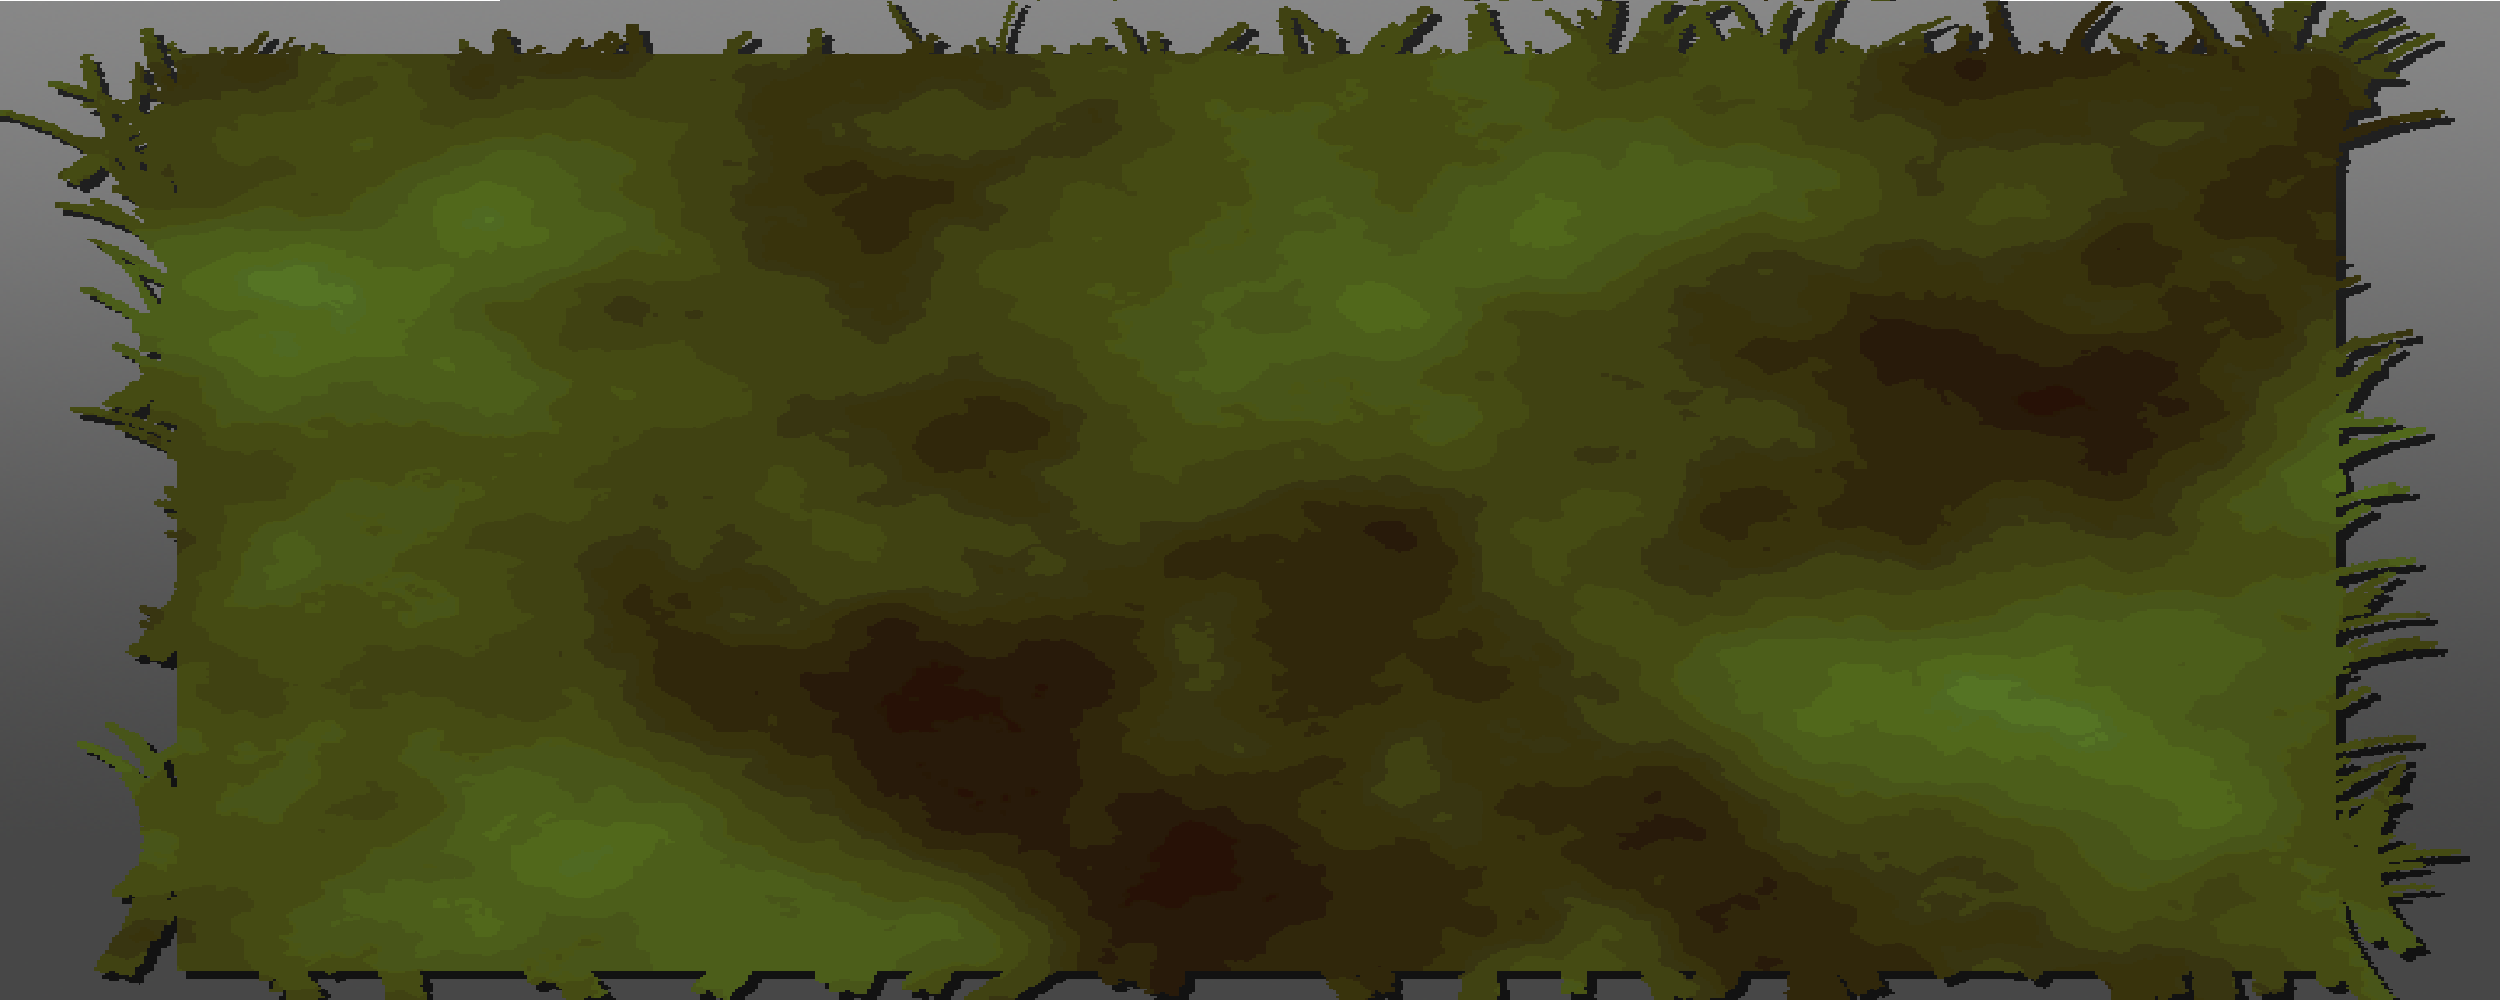
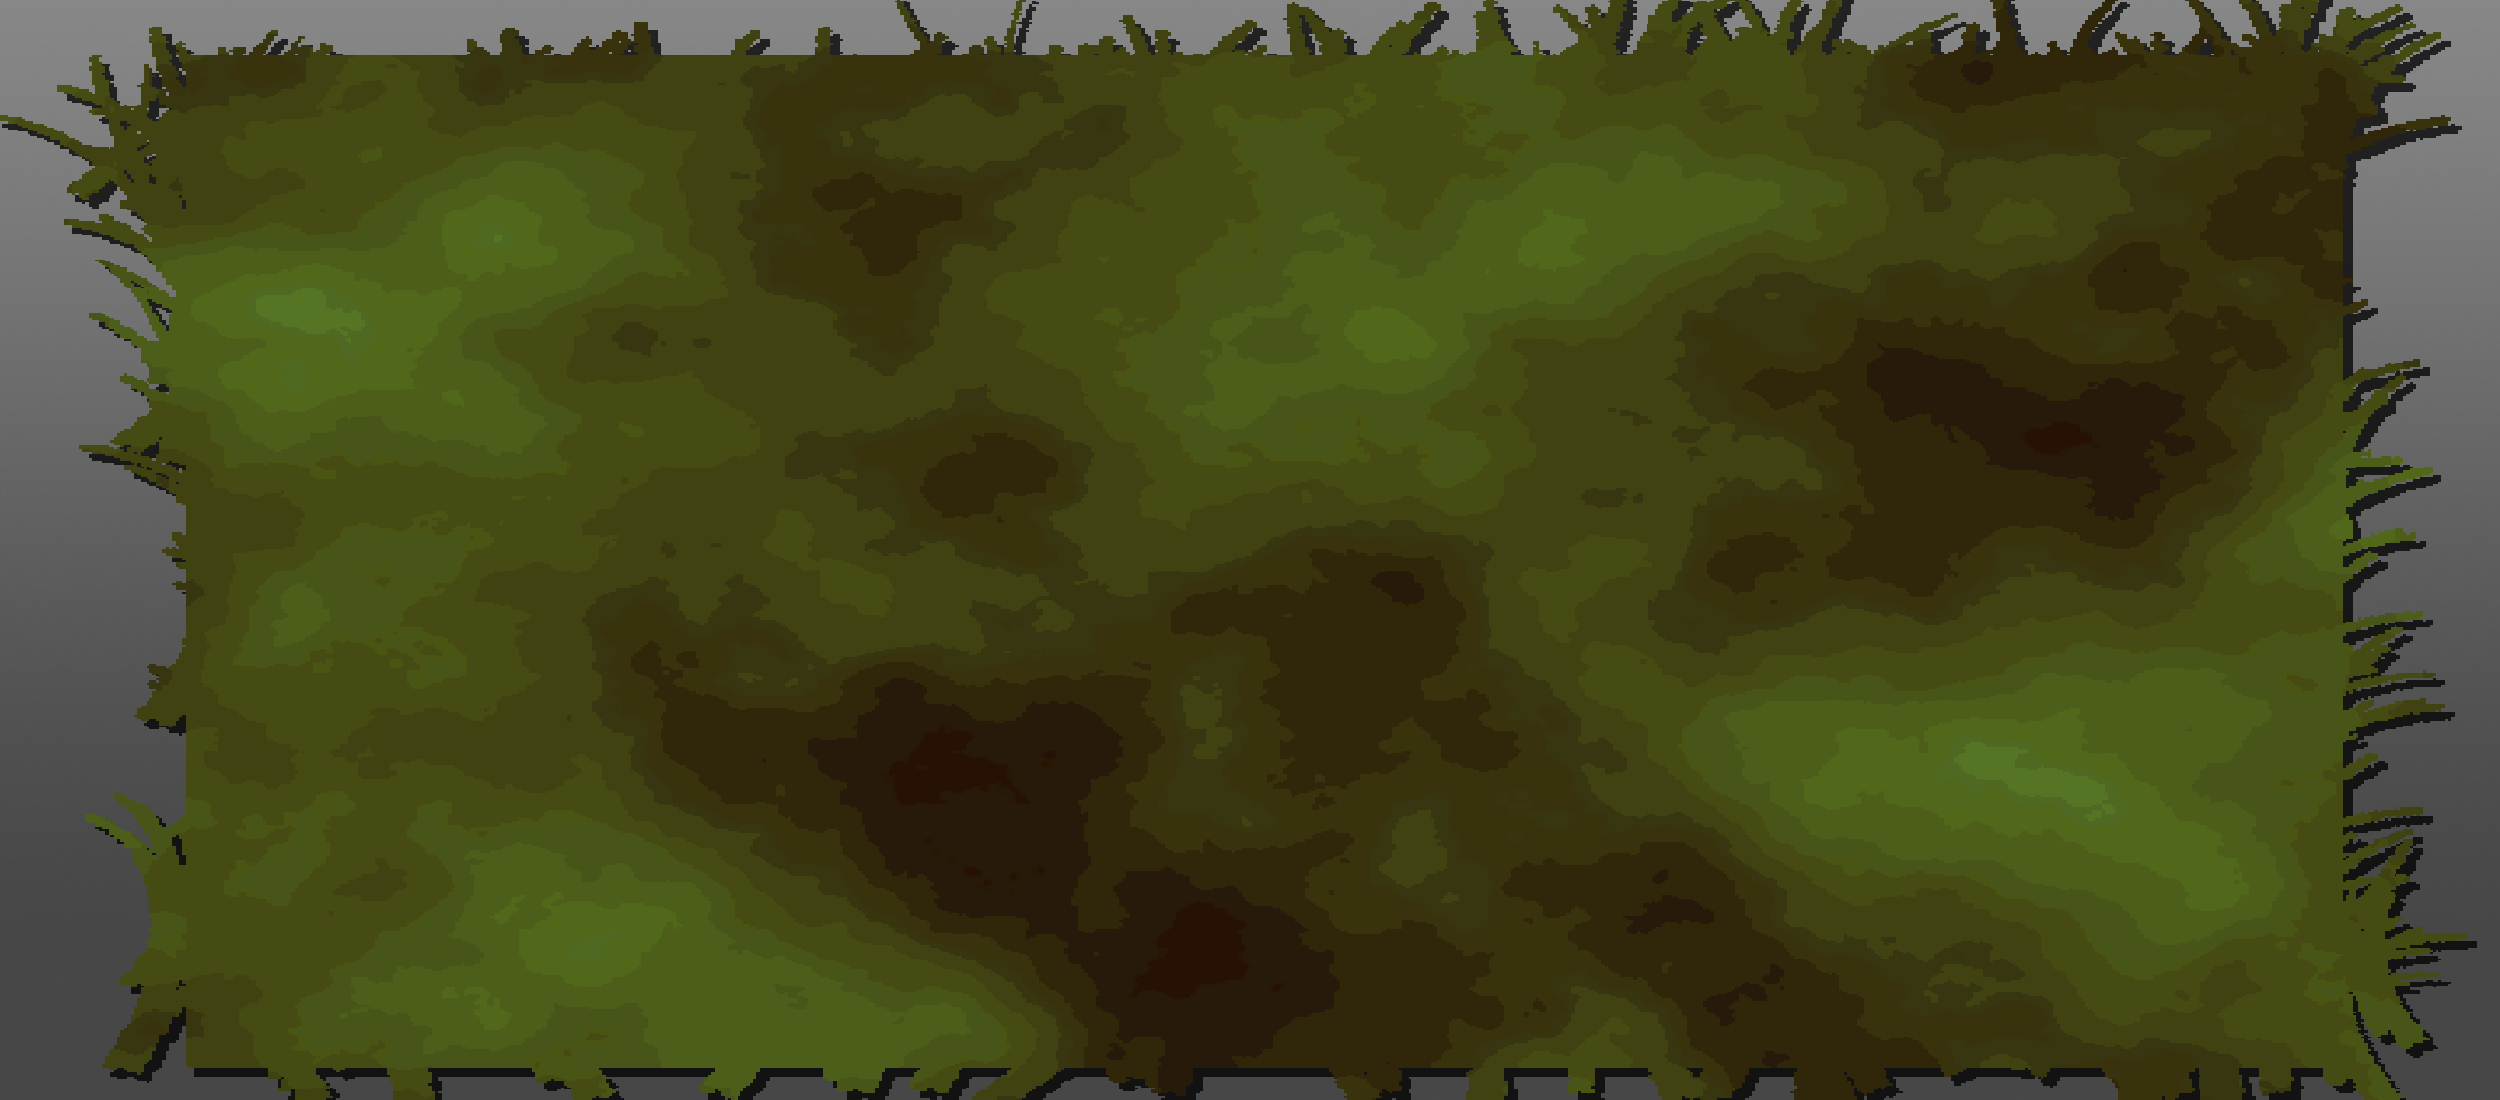
Added a cat to catch for simple gameplay

diff --git a/state0.js b/state0.js
@@ -1,11 +1,12 @@
 var demo = {}; // Game state constructor
-var catcher;
+var catcher, cat, score = 0, bigBG;
 var speed = 6;
 demo.state0 = function() {}; // property method of game state constructor
 demo.state0.prototype = { // sub methods of the state0 method
     preload: function(){
         // Adding images to the game RAM
         game.load.image('catcher', 'img/catcherBig.png');
+        game.load.image('cat', 'img/catBig.png');
         game.load.image('background', 'img/bgBig.png');
     },
     create: function(){
@@ -17,7 +18,7 @@ demo.state0.prototype = { // sub methods of the state0 method
 
         // Applying the background color or image
         // game.stage.backgroundColor = '#dddddd';
-        var bgBig = game.add.sprite(0, 0, 'background');
+        bgBig = game.add.sprite(0, 0, 'background');
         console.log('You are in state zero');
 
         // Making the game scale to the browser window
@@ -26,6 +27,11 @@ demo.state0.prototype = { // sub methods of the state0 method
         // Upload the image to the canvas in the center of the game screen
 
         catcher = game.add.sprite(game.width / 2, game.height / 2, 'catcher');
+        game.physics.enable(catcher);
+
+        cat = game.add.sprite(Math.random() * game.width,
+                                Math.random() * game.height, 'cat');
+        game.physics.enable(cat);
 
         // Set the point of origin of the sprite in the center of it
         // so that it centers properly instead of the top left corner
@@ -33,13 +39,13 @@ demo.state0.prototype = { // sub methods of the state0 method
 
         // Decrease the scale of the image by 30% percent so its smaller
         catcher.scale.setTo(0.7, 0.7);
+        cat.scale.setTo(0.6, 0.6);
 
         // Enabling physics for the character and setting game boundaries
         // collision to true
-        game.physics.enable(catcher);
         catcher.body.collideWorldBounds = true;
 
-        // instruct the camera to follow the player character
+        // Instruct the camera to follow the player character
         game.camera.follow(catcher);
     },
     update: function(){
@@ -61,6 +67,18 @@ demo.state0.prototype = { // sub methods of the state0 method
             }
         } else if (game.input.keyboard.isDown(Phaser.Keyboard.DOWN)) {
             catcher.y += speed;
+        }
+
+        // Check if the catcher and cat sprites overlap
+        // and execute catCollisionHandler function
+        game.physics.arcade.overlap(catcher, cat, catCollisionHandler);
+
+        function catCollisionHandler(catcherObject, catObject) {
+            score++;
+            catObject.x = Math.random() * game.width,
+            catObject.y = Math.random() * game.height;
+
+            console.log("Score: " + score);
         }
     }
 };

diff --git a/main.js b/main.js
@@ -1,4 +1,4 @@
-var game = new Phaser.Game(1500, 1000, Phaser.AUTO);
+var game = new Phaser.Game(1500, 1100, Phaser.AUTO);
 game.state.add('state0', demo.state0);
 game.state.add('state1', demo.state1);
 game.state.add('state2', demo.state2);
